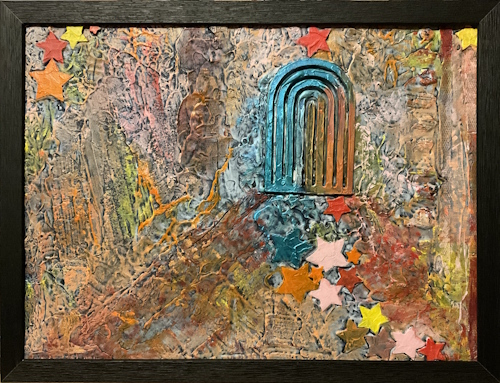
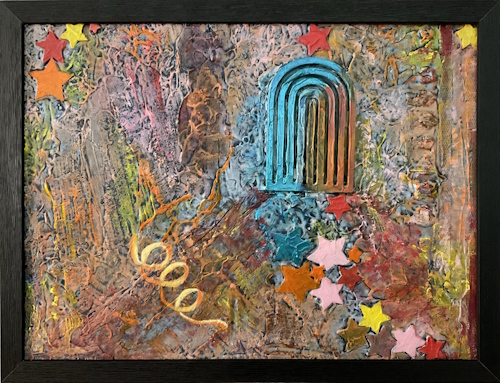
update contemplation et clairSoleil. Ass dryade, carnaval et spirale

diff --git a/htdocs/public/serie-couleursettexture.php b/htdocs/public/serie-couleursettexture.php
@@ -47,6 +47,7 @@ $paints["RencontreAuSommet"]= $acrylic->paints["RencontreAuSommet"];
 $paints["LeverSoleilRouge"]= $acrylic->paints["LeverSoleilRouge"];
 $paints["Dryade"]= $acrylic->paints["Dryade"];
 $paints["Carnaval"]= $acrylic->paints["Carnaval"];
+$paints["Spirale"]= $acrylic->paints["Spirale"];
 
 
 
@@ -89,6 +90,7 @@ $column_generator->generate_style("ApresLaPluie", "black");
 $column_generator->generate_style("RencontreAuSommet", "white");
 $column_generator->generate_style("Dryade", "black");
 $column_generator->generate_style("Carnaval", "white");
+$column_generator->generate_style("Spirale", "white");
     ?>
   </style>
   
@@ -139,10 +141,12 @@ $column_generator->generate_style("Carnaval", "white");
 		<!-- First column --> 
         <div class="w3-grid" style="grid-template-columns:auto; align-content:flex-start">
 		   <?= $column_generator->add_to_column( "LeverSoleilRouge" ); ?>
+		   <?= $column_generator->add_to_column( "Spirale" ); ?>
         </div>
         <!-- Second column --> 
         <div class="w3-grid" style="grid-template-columns:auto; align-content:flex-start">
 			<?= $column_generator->add_to_column( "Dryade" ); ?>
+			<?= $column_generator->add_to_column( "Carnaval" ); ?>
         </div>		
 	</div>
 	  

diff --git a/htdocs/private/locale/fr/messages.php b/htdocs/private/locale/fr/messages.php
@@ -302,6 +302,9 @@ Elle explore aussi l’abstrait qui lui permet de faire jaillir couleurs et form
 	'Dryade_Alt' => "Buste de femme, feuillage, fleur",
     'Dryade_Titre' => "Dryade",
     'Dryade_Desc' => "Nymphe de la forêt",
+	'Spirale_Alt' => "Volute avec des tons jaunes et orangés",
+    'Spirale_Titre' => "Spirale",
+    'Spirale_Desc' => "",
 
 	// oil
     'AutomneCezanne_Alt' => "Automne - thème allégorique des saisons au Jas de Bouffan",

diff --git a/htdocs/private/locale/en/messages.php b/htdocs/private/locale/en/messages.php
@@ -295,6 +295,9 @@ return array(
 	'Dryade_Alt' => "Bust of a woman, foliage, flower",
     'Dryade_Titre' => "Dryad",
     'Dryade_Desc' => "Forest nymph",
+	'Spirale_Alt' => "Swirl with yellow and orange tones",
+	'Spirale_Titre' => "Spiral",
+    'Spirale_Desc' => "",
 
 	// oil
     'AutomneCezanne_Alt' => "Autumn - allegorical theme of the seasons at the Jas de Bouffan - after Cezanne",
